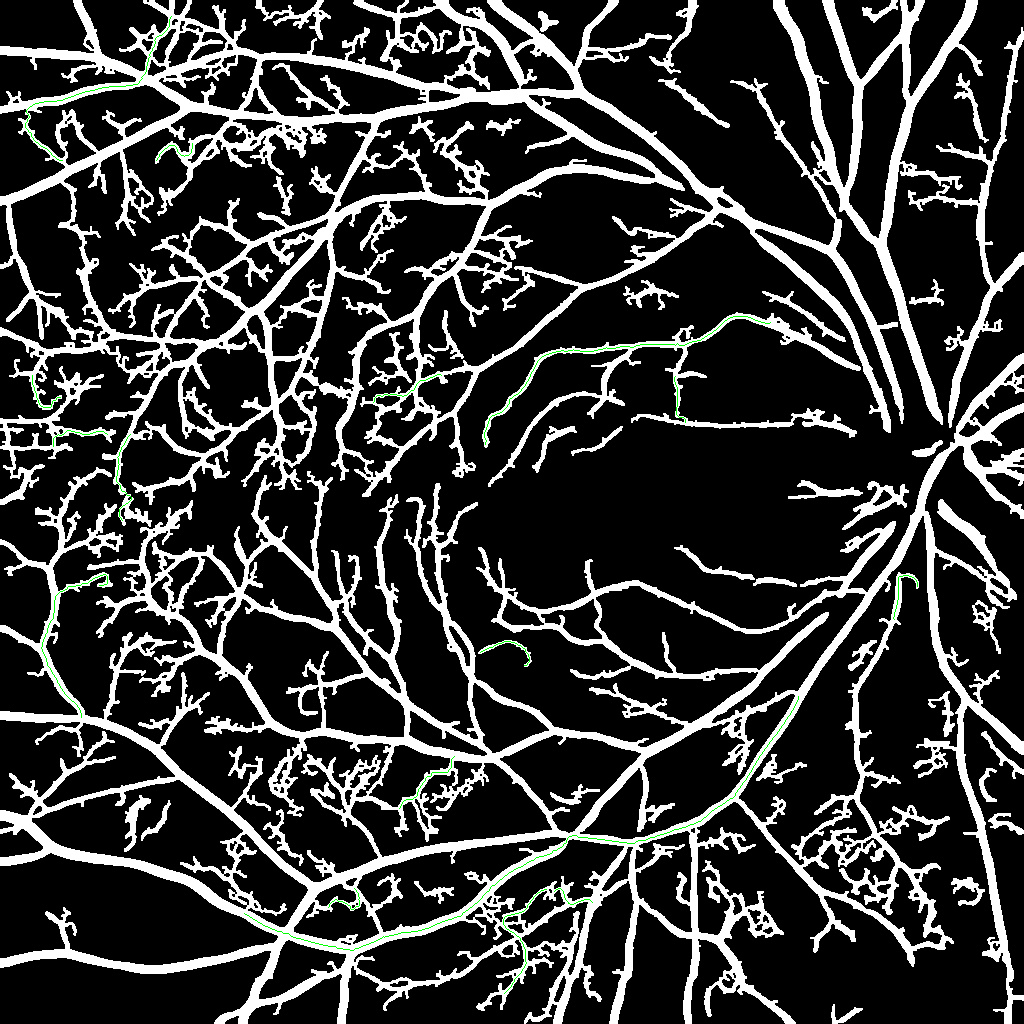
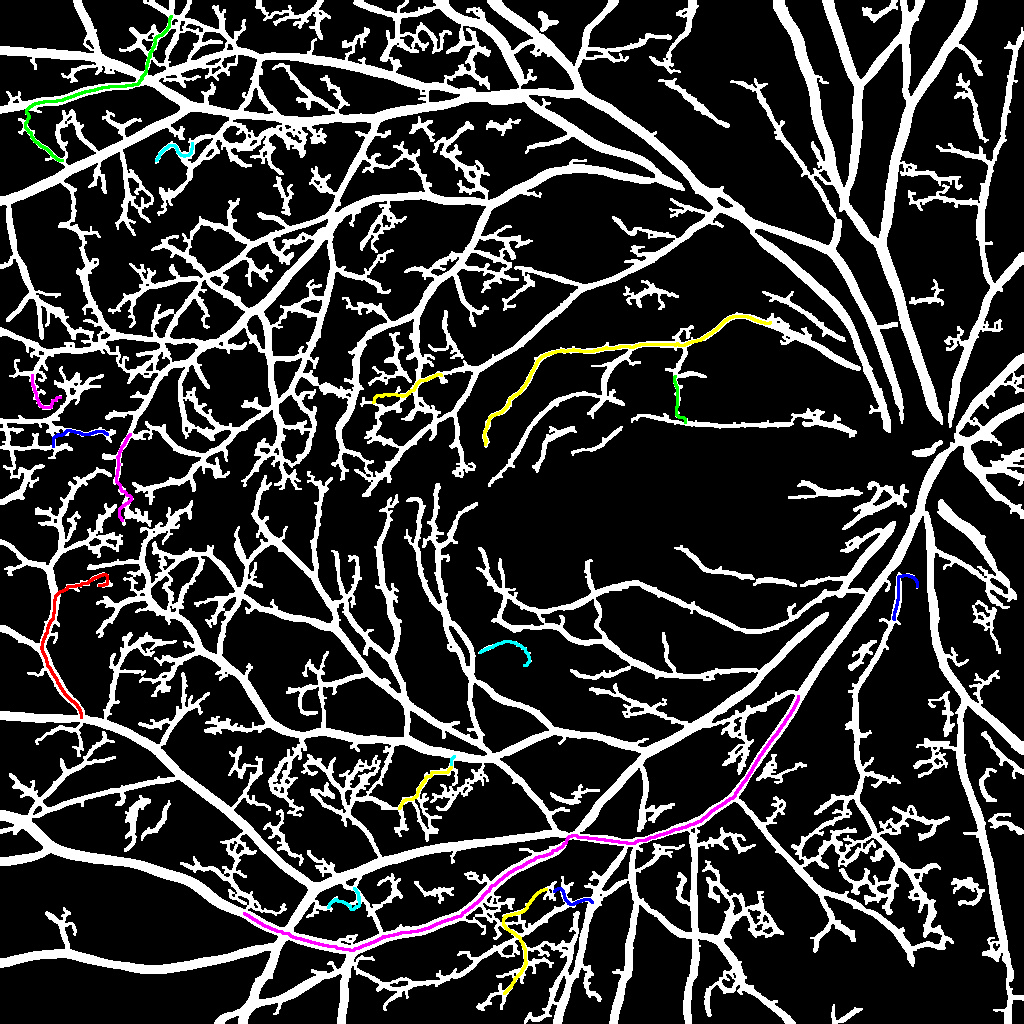
Evaluation - coloring scheme

diff --git a/model_eval/visualize_img.py b/model_eval/visualize_img.py
@@ -7,9 +7,37 @@ import os
 # this file takes in the list of the image paths (tortuous vessel segments), as well as the original image (whole vessel network)
 # it will output an RBG image with tortuous vessels colored red
 # we will assume that we have the log_file path: "vessels_localized_log.csv"
+color_list = [
+    (255, 0, 0),   # Red
+    (0, 255, 0),   # Green
+    (0, 0, 255),   # Blue
+    (255, 255, 0), # Yellow
+    (0, 255, 255), # Cyan
+    (255, 0, 255)  # Magenta
+]
 
+def get_vessel_color(vessel_name):
+    """
+    Assigns color based on the file name. If the file name starts with a number or prefix,
+    that will determine the index in the color list.
+    We use this to make sure that we get the same color for each vessel every time
 
-def get_visualized_img(image_path, tortuous_list, is_prediction):
+    Args:
+        vessel_name (str): The vessel file name.
+
+    Returns:
+        tuple: A BGR color tuple.
+    """
+    prefix = vessel_name.split('_')[0]  # Example: Extract '123' from '123_vessel_name.png'
+
+    try:
+        index = int(prefix) % len(color_list)  # Ensure the index is within the color list bounds
+    except ValueError:
+        index = hash(vessel_name) % len(color_list)  # Using hash to get a pseudo-random index
+
+    return color_list[index]
+
+def get_visualized_img(image_path, tortuous_list, is_prediction, region_size=1):
     """
     Visualizes tortuous vessel segments on an image.
 
@@ -50,18 +78,31 @@ def get_visualized_img(image_path, tortuous_list, is_prediction):
     image_rgb = cv2.cvtColor(image, cv2.COLOR_GRAY2RGB)
     all_x = []
     all_y = []
-    # Iterate over the coordinates and set the pixel color to red
+
+    vessels = []
+    # Iterate over the coordinates and color the vessels
     for ind, row in final_df.iterrows():
+        vessel_name = row[0]
         ys = ast.literal_eval(row[2])  # row[2] is a string
         xs = ast.literal_eval(row[1])
+        vessels.append((vessel_name, ys, xs, len(xs)))
+    # all_x = np.array(all_x, dtype=int)
+    # all_y = np.array(all_y, dtype=int)
+    # sort the vessels so that we can color the shorter ones first and longer ones last (we can keep the longer one when they overlap)
+    vessels.sort(key = lambda x: x[3])
+    
+    for vessel_name, ys, xs, _ in vessels:
+        vessel_color = get_vessel_color(vessel_name)
+        for x, y in zip(xs, ys):
+            for dx in range(-region_size, region_size + 1):
+                for dy in range(-region_size, region_size + 1):
+                    nx, ny = x + dx, y + dy
+                    if 0 <= nx < image.shape[1] and 0 <= ny < image.shape[0]:  # Ensure the pixel is within the image bounds
+                        image_rgb[ny, nx] = vessel_color
         all_x.extend(xs)
         all_y.extend(ys)
-    all_x = np.array(all_x, dtype=int)
-    all_y = np.array(all_y, dtype=int)
-
-
     # Set pixels to red (BGR = [0, 0, 255])
-    image_rgb[all_y, all_x] = [0, 255, 0]
+    # image_rgb[all_y, all_x] = [0, 0, 255]
 
     # Save image
     if is_prediction:

diff --git a/Model - Evaluation/load_pad.py b/Model - Evaluation/load_pad.py
@@ -1,0 +1,34 @@
+import numpy as np
+from PIL import Image
+from config import (
+    IMG_CHANNELS,
+    IMG_HEIGHT
+    )
+
+def load_and_pad_image(path, target_size = IMG_HEIGHT, to_RGB = IMG_CHANNELS == 3):
+    """
+    - Opens the image in grayscale
+    - If it's larger than target_size in any dimension, resizes down
+    - Pads with black so final shape = target_size x target_size
+    - Returns a float32 array in [0,1], shape (target_size, target_size, IMG_CHANNELS)
+    """
+    img = Image.open(path).convert("L")
+    w , h = img.size
+
+    ratio = min(target_size / w, target_size / h)
+    new_w, new_h = int(w * ratio), int(h * ratio)
+    img = img.resize((new_w, new_h), Image.Resampling.LANCZOS)
+
+    new_img = Image.new("L", (target_size, target_size))
+    left = (target_size - new_w) // 2
+    top = (target_size - new_h) // 2
+    new_img.paste(img, (left, top))
+
+    img_np = np.array(new_img, dtype=np.float32) / 255.0
+
+    if to_RGB:
+        img_np = np.stack((img_np,)*3, axis=-1)
+    else:
+        img_np = np.expand_dims(img_np, axis=-1)
+
+    return img_np
